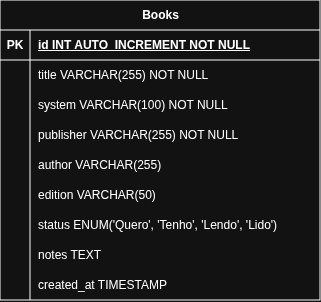
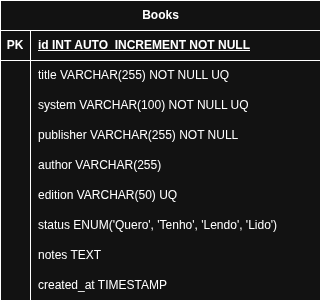
docs: update README.md, update ERD.png

diff --git a/README.md b/README.md
@@ -13,6 +13,7 @@ RPG Shelf é uma aplicação para gerenciar sua coleção de livros de RPG. Orga
 - Visualização detalhada de cada livro
 - Edição de informações dos livros
 - Exclusão com confirmação
+- Validação contra livros duplicados
 
 ### Tecnologias
 
@@ -45,7 +46,8 @@ EC3-RA1-PJBL/
 ├── docs/
 │   ├── erd.png
 │   ├── ec3-ra1-pjbl.pdf
-│   └── planejamento-ec3.jpeg
+│   ├── planejamento-ec3.jpeg
+│   └── rpg-shelf-routes-insomnia.yaml
 ├── frontend/
 │   └── src/
 │       ├── components/
@@ -93,6 +95,16 @@ EC3-RA1-PJBL/
 - mysql2 3.20.0
 - dotenv 17.3.1
 - TypeScript 5.9.3
+
+## Testando a API
+
+Na pasta `docs/` há o arquivo `rpg-shelf-routes-insomnia.yaml` com todas as rotas configuradas. Para importar:
+
+1. Abra o Insomnia
+2. Clique em Import
+3. Selecione o arquivo `docs/rpg-shelf-routes-insomnia.yaml`
+
+A coleção inclui testes para todas as operações CRUD, validação de ID inválido e detecção de livros duplicados.
 
 ## Como Rodar o Projeto
 
@@ -166,6 +178,8 @@ A tabela `books` possui os seguintes campos:
 | status | ENUM | Quero, Tenho, Lendo, Lido |
 | notes | TEXT | Observações (opcional) |
 | created_at | TIMESTAMP | Data de criação automática |
+
+A tabela possui um índice UNIQUE em (title, system, edition) para evitar livros duplicados.
 
 ## Autor
 
